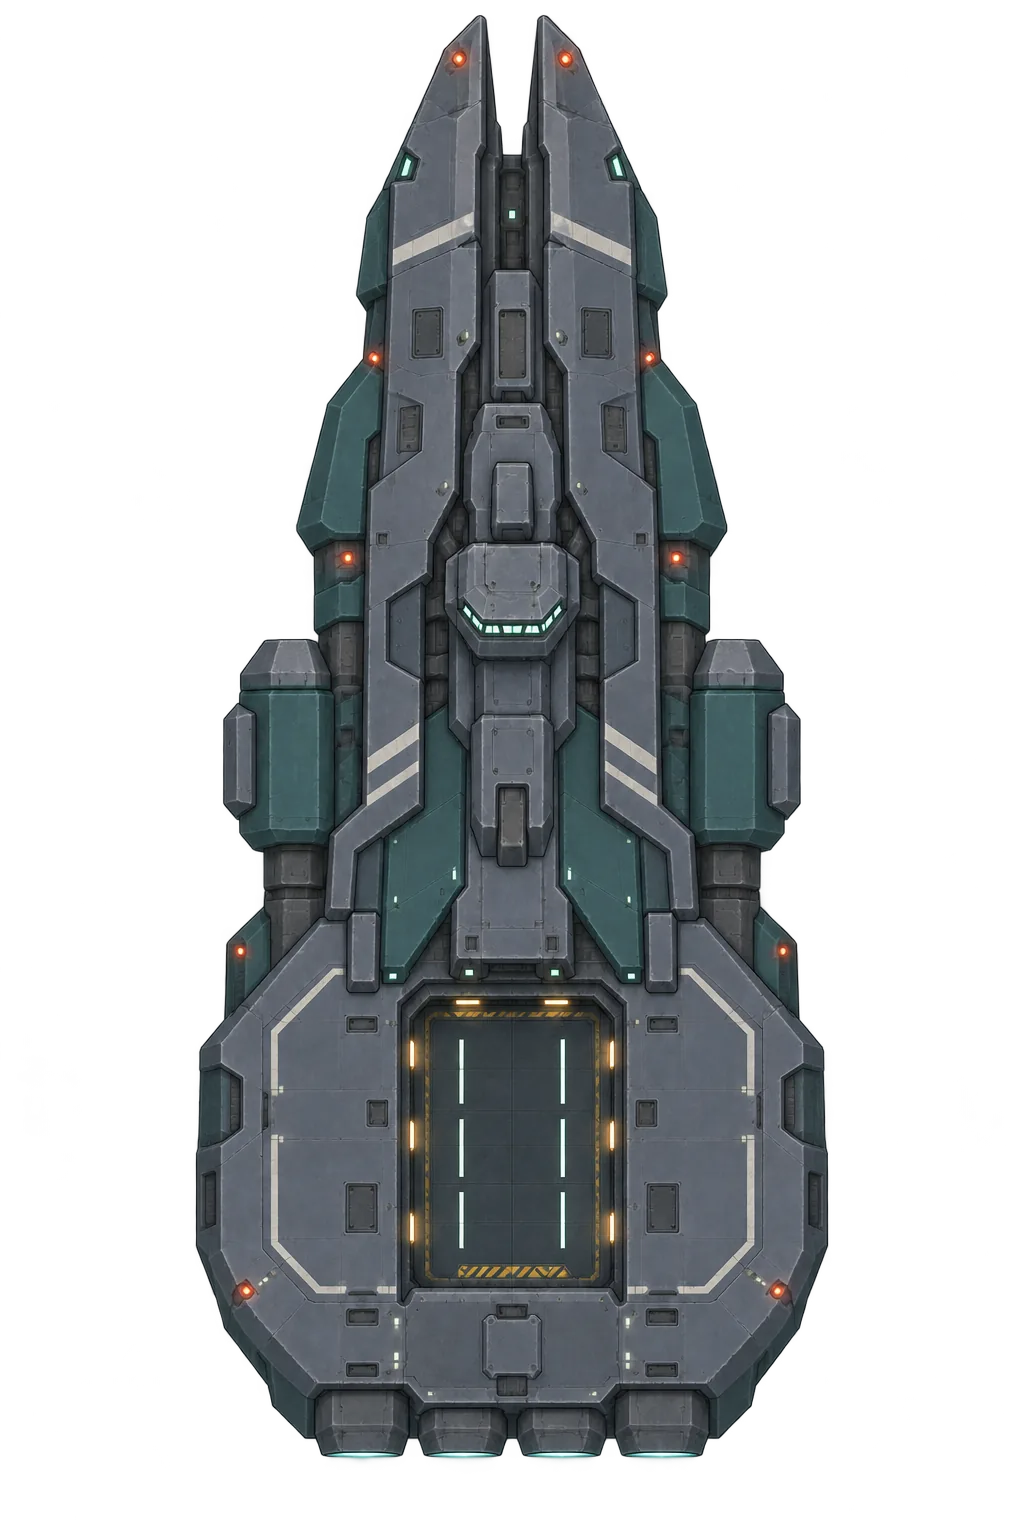
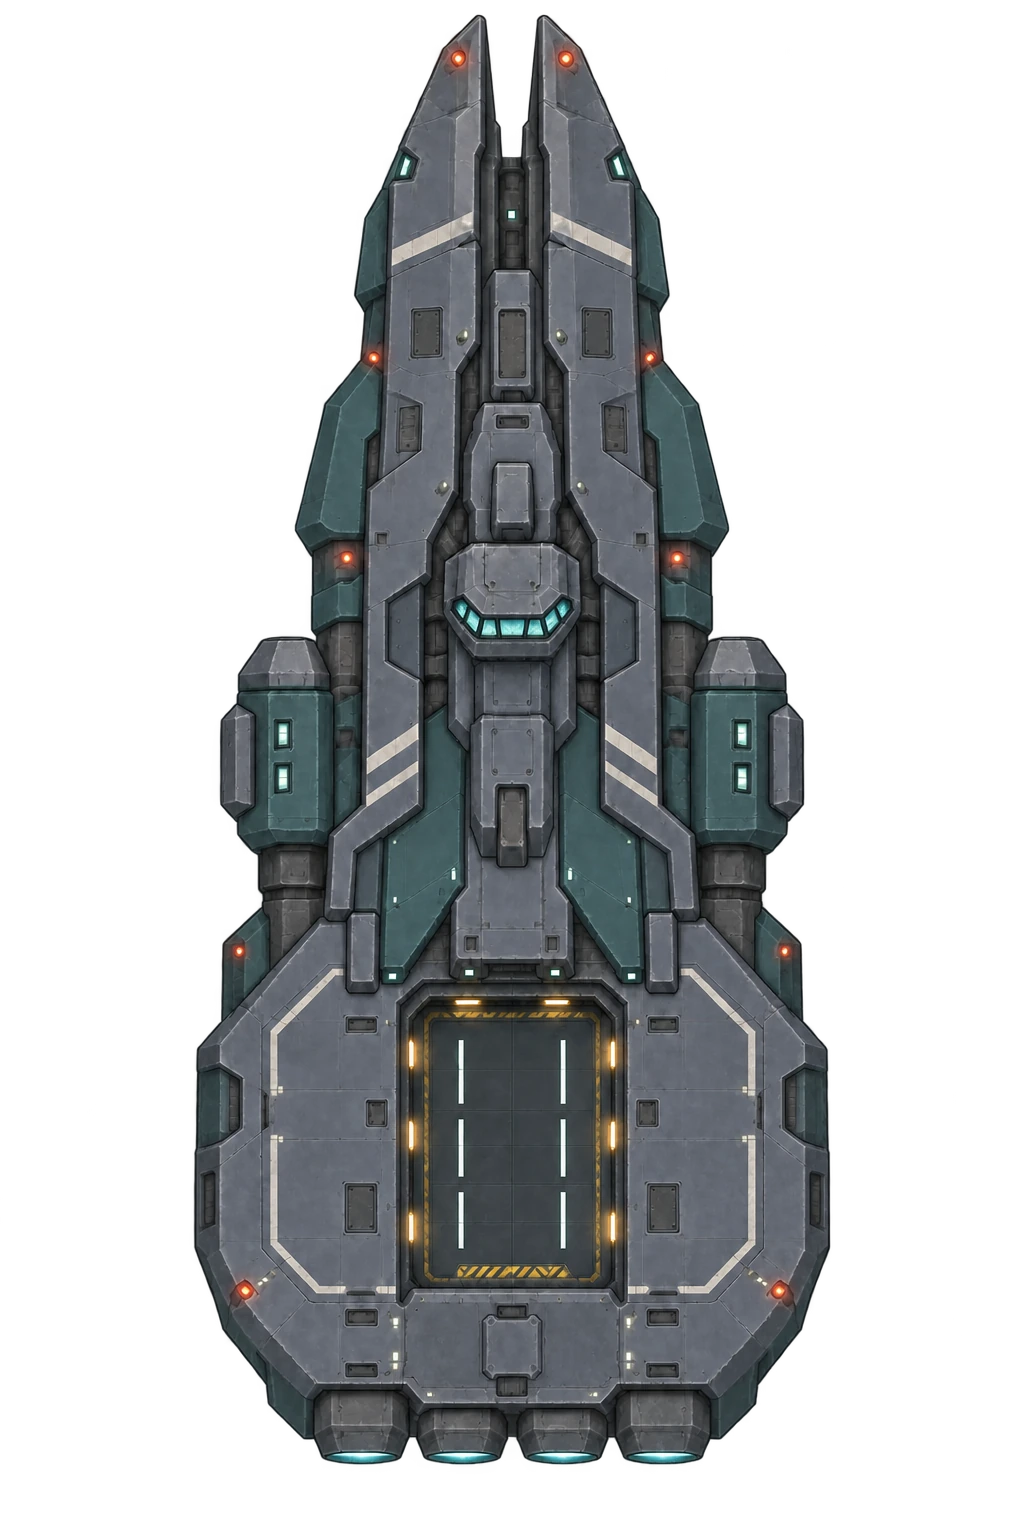
Restore readable bridge windows and side lamp detail in carrier Top View

diff --git a/carrier.html b/carrier.html
@@ -30,7 +30,7 @@
    <img class="carrier-hull" id="carrier-extra-2-image" src="./carrier-extra-2.webp" width="1024" height="1536" alt="" aria-hidden="true" fetchpriority="low" hidden>
    <img class="carrier-hull" id="carrier-mid-2-image" src="./carrier-mid-2.webp" width="1024" height="1536" alt="" aria-hidden="true" fetchpriority="low" hidden>
    <img class="carrier-hull" id="carrier-extra-3-image" src="./carrier-extra-3.webp" width="1024" height="1536" alt="" aria-hidden="true" fetchpriority="low" hidden>
-   <img class="carrier-hull" id="carrier-top-image" src="./carrier-top.webp" width="1024" height="1536" alt="Direct top view of the carrier and its lit aft hangar." fetchpriority="auto" hidden>
+   <img class="carrier-hull" id="carrier-top-image" src="./carrier-top.webp?v=86" width="1024" height="1536" alt="Direct top view of the carrier with its cyan bridge windows, side lamps, and lit aft hangar." fetchpriority="auto" hidden>
    <div class="carrier-lights" aria-hidden="true"><span class="carrier-light-bridge"></span><span class="carrier-light-bay"></span><span class="carrier-light-bayport"></span><span class="carrier-light-baystarboard"></span><span class="carrier-engine-glow engine-1"></span><span class="carrier-engine-glow engine-2"></span><span class="carrier-engine-glow engine-3"></span><span class="carrier-engine-glow engine-4"></span></div>
   </div>
  </div>
